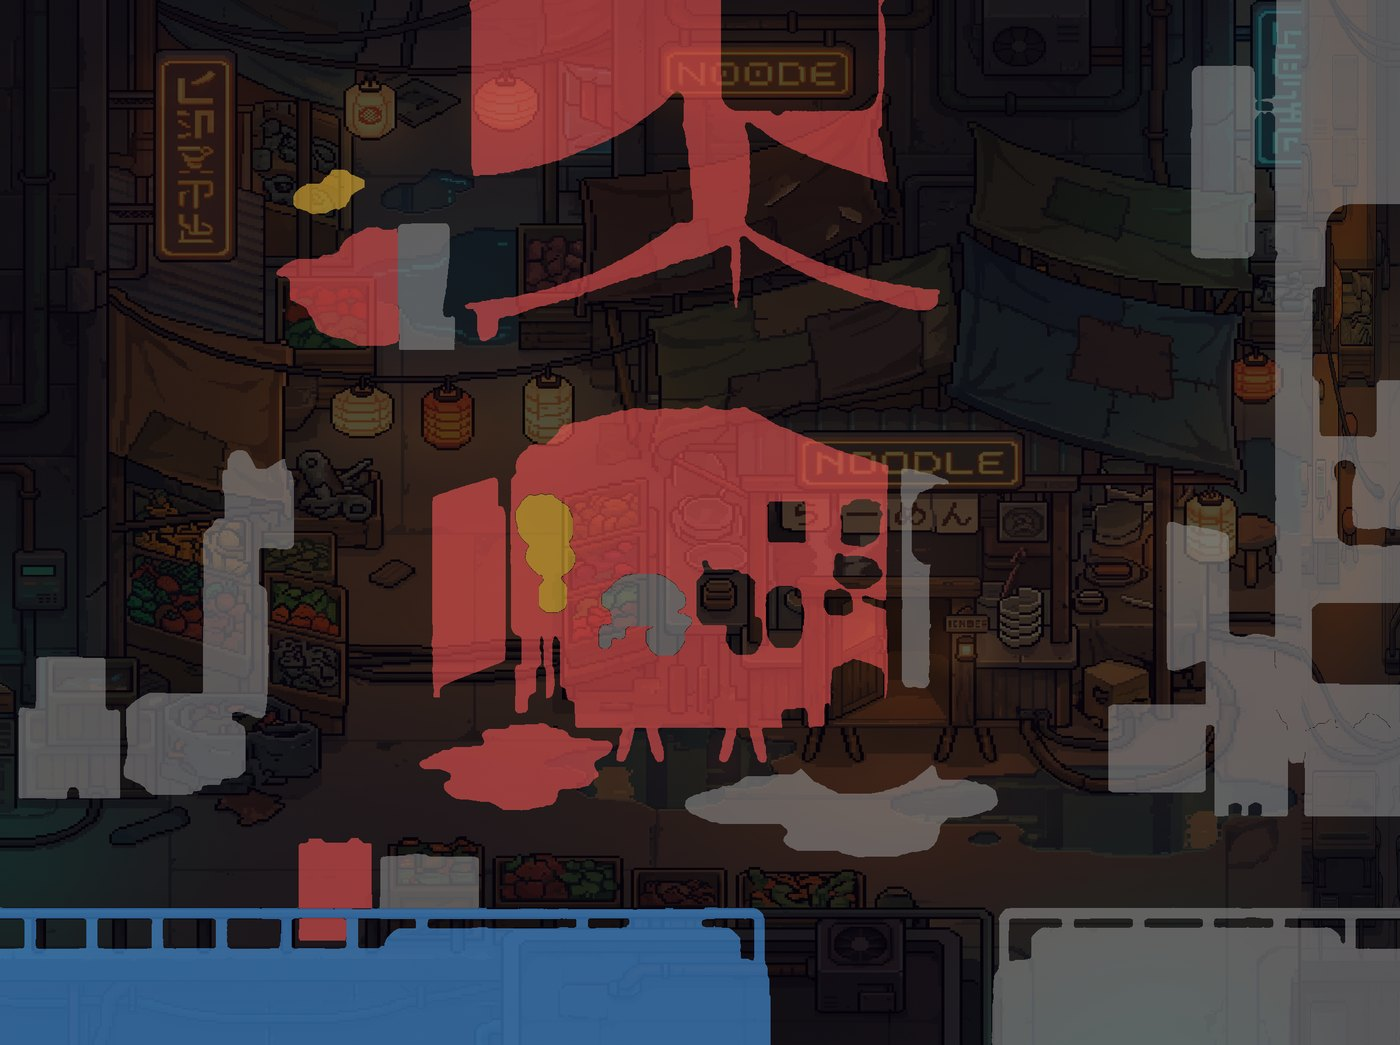
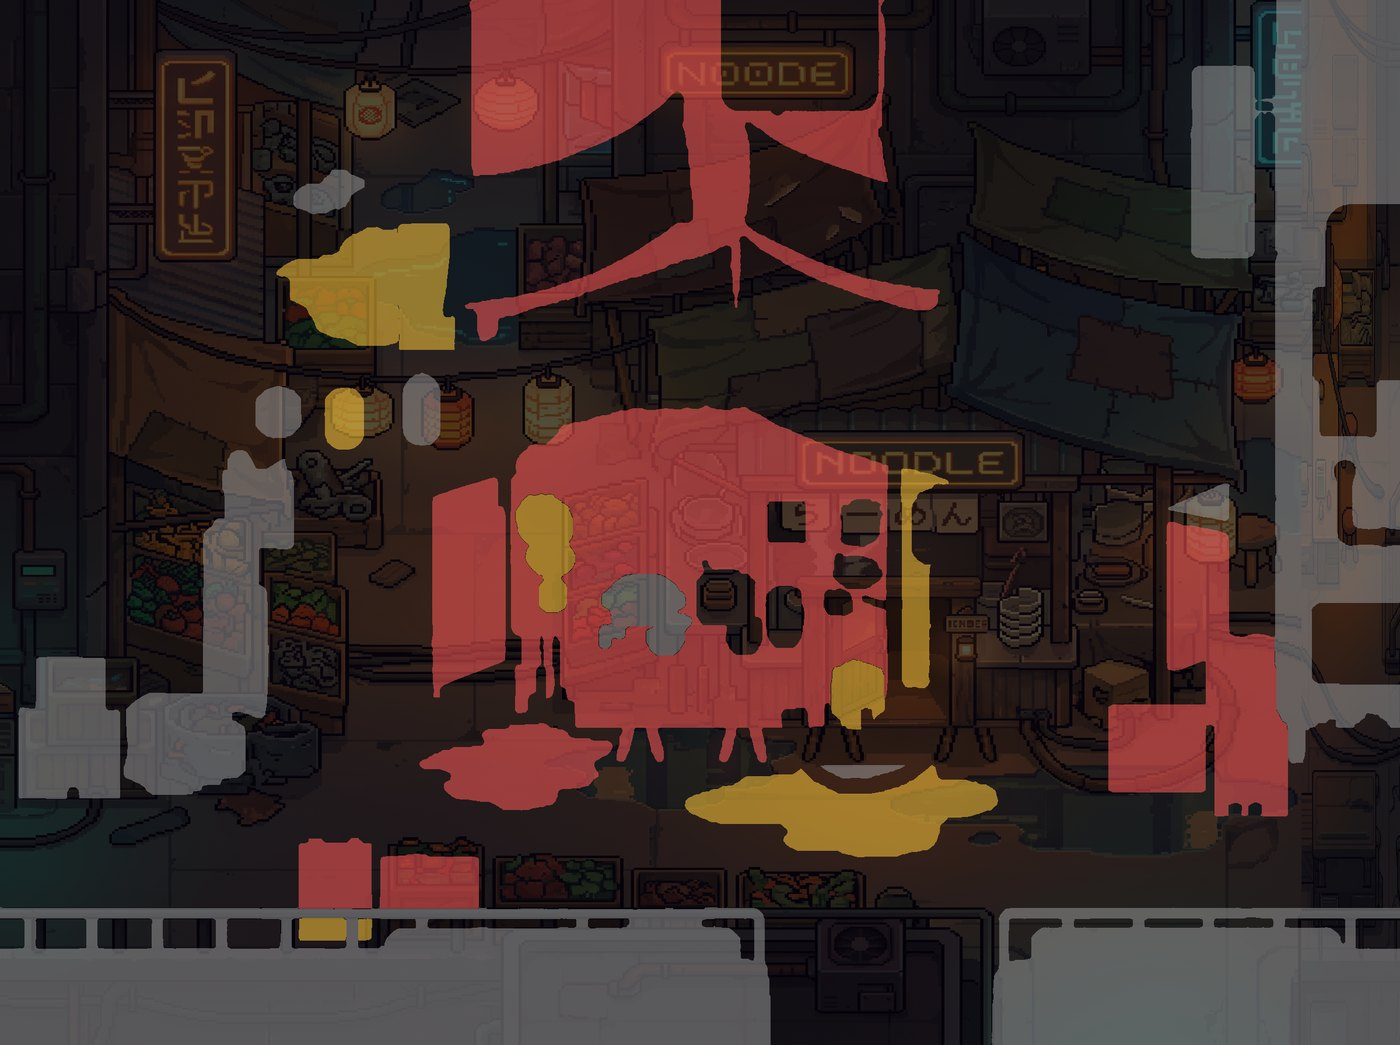
occprobe2 concluded: single-char wins evidence A/B, front-probed overhead qualifier, evidence persistence

diff --git a/tools/art-pipeline/occprobe2_run.py b/tools/art-pipeline/occprobe2_run.py
@@ -47,8 +47,9 @@ NOISE_BUDGET = 0.08        # calibrated: worst clean roll 0.049
 MIN_MARKER_PX = 600
 CENTROID_TOL = 100
 MIN_CONSTRAINT_PX = 50
-CONCORDANCE = 20
+CONCORDANCE = 40  # must be >= planner grid stride (32) or 2-probe bounds cannot form
 SPACING = int(1.5 * CHAR_W)
+MAX_PER_CROP = 1  # multi-char drops ~30% of markers (P1 A/B); single-char was 11/11
 APRON_DOWN, APRON_SIDE = 20, 30
 YSORT, OVERHEAD, CONTRA, NOEV = 'ysort', 'overhead', 'contradiction', 'no-evidence'
 
@@ -101,7 +102,7 @@ def group_into_crops(positions):
         seed = todo.pop(0)
         group = [seed]
         for p in list(todo):
-            if len(group) >= 3:
+            if len(group) >= MAX_PER_CROP:
                 break
             if max(abs(p[0] - seed[0]), abs(p[1] - seed[1])) > CROP - 200:
                 continue
@@ -288,7 +289,16 @@ def bound(vals, concordance, upper):
     return None
 
 
-def aggregate(evidence, inst, blocking, min_px, concordance):
+def interior_mask(inst):
+    """False within ~2px of any instance-label boundary: blur-diff bleeds diff
+    across object edges, so boundary pixels must not attribute evidence."""
+    f = inst.astype(np.float32)
+    k = np.ones((5, 5), np.uint8)
+    return cv2.dilate(f, k) == cv2.erode(f, k)
+
+
+def aggregate(evidence, inst, interior, blocking, min_px, concordance,
+              front_probed=frozenset()):
     cons = {}
     for ev in evidence:
         gy = ev.pos[1]
@@ -297,9 +307,12 @@ def aggregate(evidence, inst, blocking, min_px, concordance):
             yy, xx = np.nonzero(m)
             if not len(yy):
                 continue
-            ids, cts = np.unique(inst[np.clip(yy + oy0, 0, inst.shape[0] - 1),
-                                      np.clip(xx + ox0, 0, inst.shape[1] - 1)],
-                                 return_counts=True)
+            gyy = np.clip(yy + oy0, 0, inst.shape[0] - 1)
+            gxx = np.clip(xx + ox0, 0, inst.shape[1] - 1)
+            keep = interior[gyy, gxx]
+            if not keep.any():
+                continue
+            ids, cts = np.unique(inst[gyy[keep], gxx[keep]], return_counts=True)
             for oid, ct in zip(ids, cts):
                 if int(oid) in blocking and ct >= min_px:
                     cons.setdefault(int(oid), {'behind': [], 'front': []})[key].append(gy)
@@ -310,7 +323,10 @@ def aggregate(evidence, inst, blocking, min_px, concordance):
         if lo is None and hi is None:
             v = NOEV
         elif hi is None:
-            v = OVERHEAD
+            # overhead ONLY if a valid front-band probe overlapped this object
+            # and the character still never covered it (gfx panel criterion);
+            # otherwise the absence of front evidence is a sampling gap
+            v = OVERHEAD if oid in front_probed else NOEV
         elif lo is None or lo < hi:
             v = YSORT
         else:
@@ -352,9 +368,23 @@ async def run_async(room):
     print(f'[{room}] Arm B ramp:')
     armb = await arm_b_ramp(plate, sprite, positions)
 
-    base = aggregate(evidence, inst, blocking, MIN_CONSTRAINT_PX, CONCORDANCE)
-    sweeps = [aggregate(evidence, inst, blocking, mp, cw)
+    interior = interior_mask(inst)
+    valid_pos = {tuple(e.pos) for e in evidence}
+    front_probed = frozenset(
+        oid for p in plan['probes'] if tuple(p['pos']) in valid_pos
+        for oid, kind in p['pairs'] if kind == 'front')
+    base = aggregate(evidence, inst, interior, blocking, MIN_CONSTRAINT_PX,
+                     CONCORDANCE, front_probed)
+    sweeps = [aggregate(evidence, inst, interior, blocking, mp, cw, front_probed)
               for mp, cw in ((25, 10), (100, 40))]
+    ev_dir = os.environ.get('OCCPROBE_EV_DIR')
+    if ev_dir:
+        os.makedirs(ev_dir, exist_ok=True)
+        for e in evidence:
+            np.savez_compressed(os.path.join(
+                ev_dir, f'ev_{room}_{e.pos[0]}_{e.pos[1]}.npz'),
+                visible=e.visible, occluded=e.occluded,
+                pos=np.array(e.pos), origin=np.array(e.origin))
     for oid, rec in base.items():
         rec['fragile'] = any(s.get(oid, {}).get('verdict') != rec['verdict'] for s in sweeps)
         rec['label'] = blocking.get(oid, '?')

diff --git a/tools/art-pipeline/STATUS.md b/tools/art-pipeline/STATUS.md
@@ -1310,3 +1310,23 @@ Model pinning skipped: Vertex exposes no dated alias for gemini-3-pro-image.
 - blur-diff (k=5) added to kill pixel-art chance-match phantom holes; next
   evidence fix identified: blur bleeds diff ~2px across object boundaries →
   false front constraints → erode evidence masks before instance attribution.
+
+### Run 28b: multi-char experiment CONCLUDED (bazaar)
+- ANSWER to "can we sample with many characters at once": NO for evidence
+  quality. Multi-char (2-3/crop) drops 30-45% of markers; full-frame K=3
+  failed 12 consecutive placements across all runs. Single-char at the SAME
+  planner positions: 34-35/36 evidences (94-97%). Async(sem=6) makes 36
+  single-char calls ~ same wall-clock as 14 multi-char calls. Per-OBJECT
+  inference (Ivan's presegmentation idea) is the part that works: 27/29
+  z-relevant objects got verdicts from 36 probes.
+- Evidence fixes landed: blur-diff (chance-match holes), interior attribution
+  (blur boundary bleed), apron exclusion, concordance 40 (>= grid stride 32 —
+  the 20px window made 2-probe bounds impossible by construction),
+  front-probed qualifier for overhead verdicts (kills scene-edge false
+  overheads). Evidence npz persisted (OCCPROBE_EV_DIR) so aggregation
+  changes replay without API spend.
+- Final bazaar verdicts: 5 ysort (1/5 contain engine key), 0 overhead,
+  10 contradiction (incl. the noodle-stand canopy+counter split candidate,
+  as gfx panel predicted), 12 no-ev, 9 fragile. QUALITY LIMIT = roll variance:
+  next step is the planned judge escalation (median-of-3 on fragile/contested)
+  + 2 rolls per position before any baseY correction ships to instances.json.
